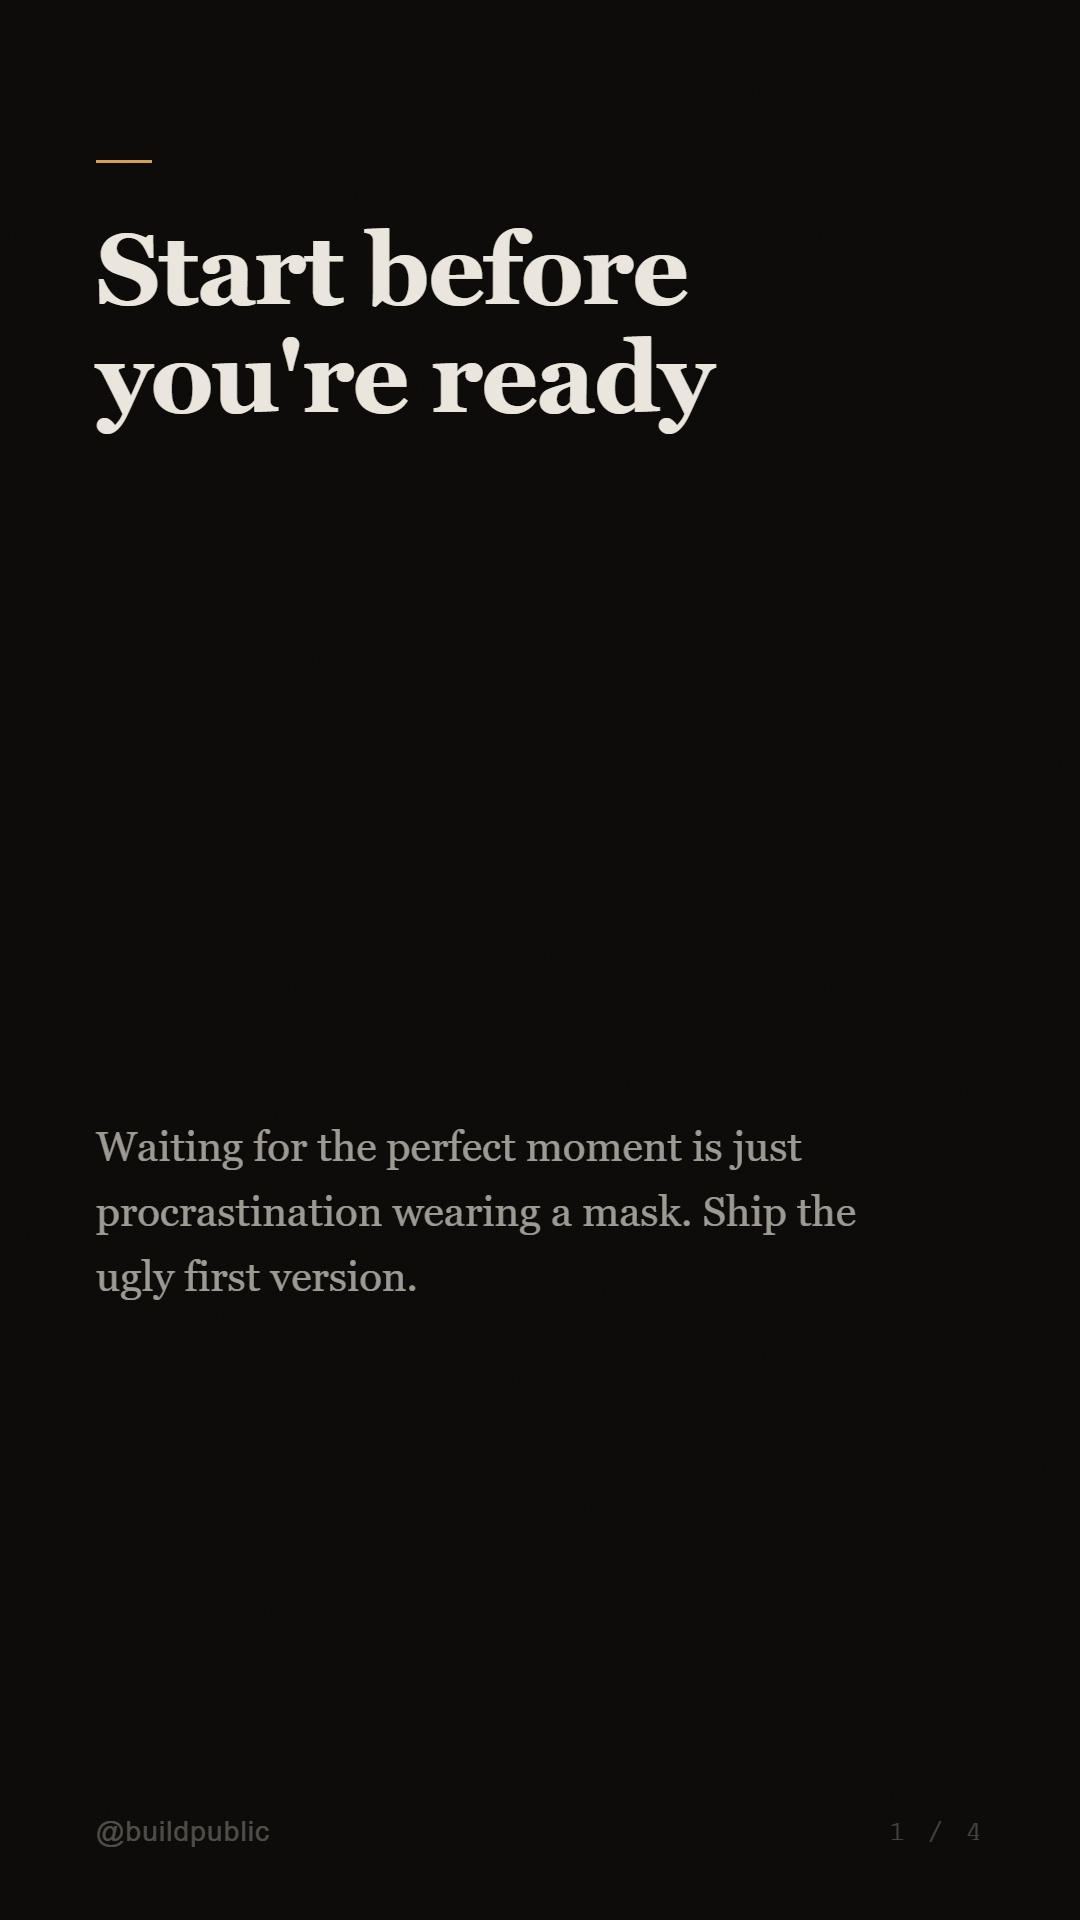
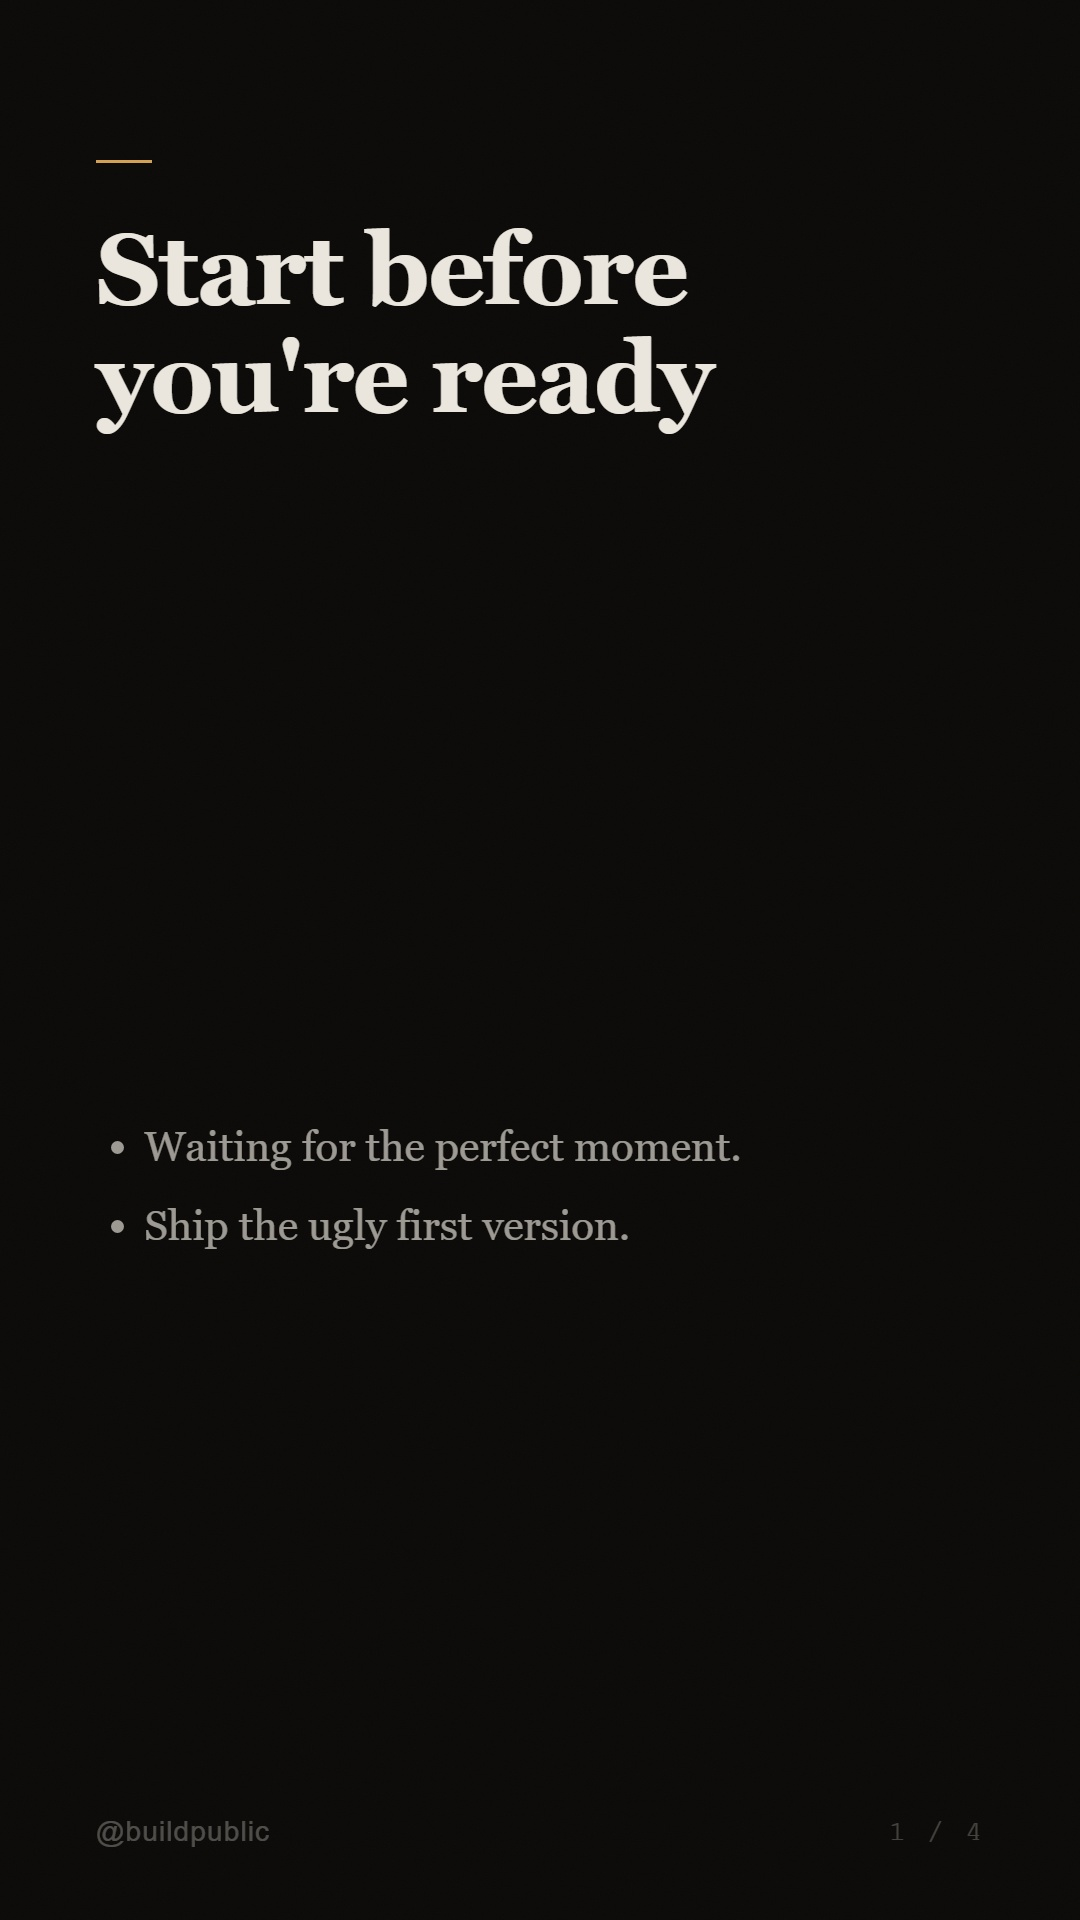
feat: add support for rendering body as bulleted lists in insight templates

Changed region(s): [[0.0917, 0.5938, 0.7944, 0.6875]]

diff --git a/templates/insight2/preview/slide-1.html b/templates/insight2/preview/slide-1.html
@@ -89,6 +89,22 @@
     overflow-wrap: break-word;
     word-break: keep-all;
     line-break: loose;
+    white-space: pre-line;
+  }
+
+  .body.body--bullets {
+    list-style: disc;
+    list-style-position: outside;
+    padding-left: 1.15em;
+    white-space: normal;
+  }
+
+  .body.body--bullets li {
+    margin-bottom: 0.35em;
+  }
+
+  .body.body--bullets li:last-child {
+    margin-bottom: 0;
   }
 
   /* ── Footer area ── */
@@ -159,7 +175,10 @@ code, pre, kbd, samp, .mono, [class*="mono"] {
 
   <!-- Body – subtitle zone in middle -->
   <div class="body-layer">
-    <p class="body">Waiting for the perfect moment is just procrastination wearing a mask. Ship the ugly first version.</p>
+    <ul class="body body--bullets">
+      <li>Waiting for the perfect moment.</li>
+      <li>Ship the ugly first version.</li>
+    </ul>
   </div>
 
   <!-- Footer -->

diff --git a/templates/insight2-wide/template.html b/templates/insight2-wide/template.html
@@ -108,6 +108,23 @@
     opacity: 0.85;
     text-wrap: pretty;
     text-align: center;
+    white-space: pre-line;
+  }
+
+  .body.body--bullets {
+    list-style: disc;
+    list-style-position: outside;
+    padding-left: 1.15em;
+    text-align: left;
+    white-space: normal;
+  }
+
+  .body.body--bullets li {
+    margin-bottom: 0.35em;
+  }
+
+  .body.body--bullets li:last-child {
+    margin-bottom: 0;
   }
 
   /* ── Footer bar ── */
@@ -163,7 +180,15 @@
   {{#if body}}
   <div class="body-area">
     <div class="body-bar">
+      {{#if body_to_bullet}}
+      <ul class="body body--bullets">
+        {{#each (bodyBulletLines body)}}
+        <li>{{this}}</li>
+        {{/each}}
+      </ul>
+      {{else}}
       <p class="body">{{body}}</p>
+      {{/if}}
     </div>
   </div>
   {{/if}}

diff --git a/templates/insight2/template.html b/templates/insight2/template.html
@@ -109,6 +109,22 @@
     overflow-wrap: break-word;
     word-break: keep-all;
     line-break: loose;
+    white-space: pre-line;
+  }
+
+  .body.body--bullets {
+    list-style: disc;
+    list-style-position: outside;
+    padding-left: 1.15em;
+    white-space: normal;
+  }
+
+  .body.body--bullets li {
+    margin-bottom: 0.35em;
+  }
+
+  .body.body--bullets li:last-child {
+    margin-bottom: 0;
   }
 
   /* ── Footer area ── */
@@ -169,7 +185,15 @@
   <!-- Body – subtitle zone in middle -->
   {{#if body}}
   <div class="body-layer">
+    {{#if body_to_bullet}}
+    <ul class="body body--bullets">
+      {{#each (bodyBulletLines body)}}
+      <li>{{this}}</li>
+      {{/each}}
+    </ul>
+    {{else}}
     <p class="body">{{body}}</p>
+    {{/if}}
   </div>
   {{/if}}
 

diff --git a/src/core/renderer.ts b/src/core/renderer.ts
@@ -10,6 +10,13 @@ Handlebars.registerHelper("or", (a, b) => a || b);
 Handlebars.registerHelper("default", (val, fallback) => val || fallback);
 Handlebars.registerHelper("upper", (s) => String(s).toUpperCase());
 Handlebars.registerHelper("lower", (s) => String(s).toLowerCase());
+/** Non-empty trimmed lines from body (for bullet lists). */
+Handlebars.registerHelper("bodyBulletLines", (body: unknown) =>
+  String(body ?? "")
+    .split(/\r?\n/)
+    .map((line) => line.trim())
+    .filter((line) => line.length > 0)
+);
 
 // ── Image resolution ─────────────────────────────────────────────────────────
 const MIME: Record<string, string> = {

diff --git a/tests/renderer.test.ts b/tests/renderer.test.ts
@@ -55,6 +55,13 @@ describe("Handlebars helpers", () => {
     expect(fn({})).toBe("no title");
     expect(fn({ title: "Hi" })).toBe("");
   });
+
+  it("bodyBulletLines splits on newlines and trims", () => {
+    const fn = Handlebars.compile("{{#each (bodyBulletLines body)}}[{{this}}]{{/each}}");
+    expect(fn({ body: "a\nb\nc" })).toBe("[a][b][c]");
+    expect(fn({ body: "  x  \n\ny" })).toBe("[x][y]");
+    expect(fn({ body: "" })).toBe("");
+  });
 });
 
 // ─────────────────────────────────────────────────────────────────────────────

diff --git a/templates/insight2/preview/slide-2.html b/templates/insight2/preview/slide-2.html
@@ -107,6 +107,22 @@
     overflow-wrap: break-word;
     word-break: keep-all;
     line-break: loose;
+    white-space: pre-line;
+  }
+
+  .body.body--bullets {
+    list-style: disc;
+    list-style-position: outside;
+    padding-left: 1.15em;
+    white-space: normal;
+  }
+
+  .body.body--bullets li {
+    margin-bottom: 0.35em;
+  }
+
+  .body.body--bullets li:last-child {
+    margin-bottom: 0;
   }
 
   /* ── Footer area ── */

diff --git a/templates/insight2/preview/slide-4.html b/templates/insight2/preview/slide-4.html
@@ -107,6 +107,22 @@
     overflow-wrap: break-word;
     word-break: keep-all;
     line-break: loose;
+    white-space: pre-line;
+  }
+
+  .body.body--bullets {
+    list-style: disc;
+    list-style-position: outside;
+    padding-left: 1.15em;
+    white-space: normal;
+  }
+
+  .body.body--bullets li {
+    margin-bottom: 0.35em;
+  }
+
+  .body.body--bullets li:last-child {
+    margin-bottom: 0;
   }
 
   /* ── Footer area ── */

diff --git a/templates/insight2/preview/slide-3.html b/templates/insight2/preview/slide-3.html
@@ -89,6 +89,22 @@
     overflow-wrap: break-word;
     word-break: keep-all;
     line-break: loose;
+    white-space: pre-line;
+  }
+
+  .body.body--bullets {
+    list-style: disc;
+    list-style-position: outside;
+    padding-left: 1.15em;
+    white-space: normal;
+  }
+
+  .body.body--bullets li {
+    margin-bottom: 0.35em;
+  }
+
+  .body.body--bullets li:last-child {
+    margin-bottom: 0;
   }
 
   /* ── Footer area ── */
